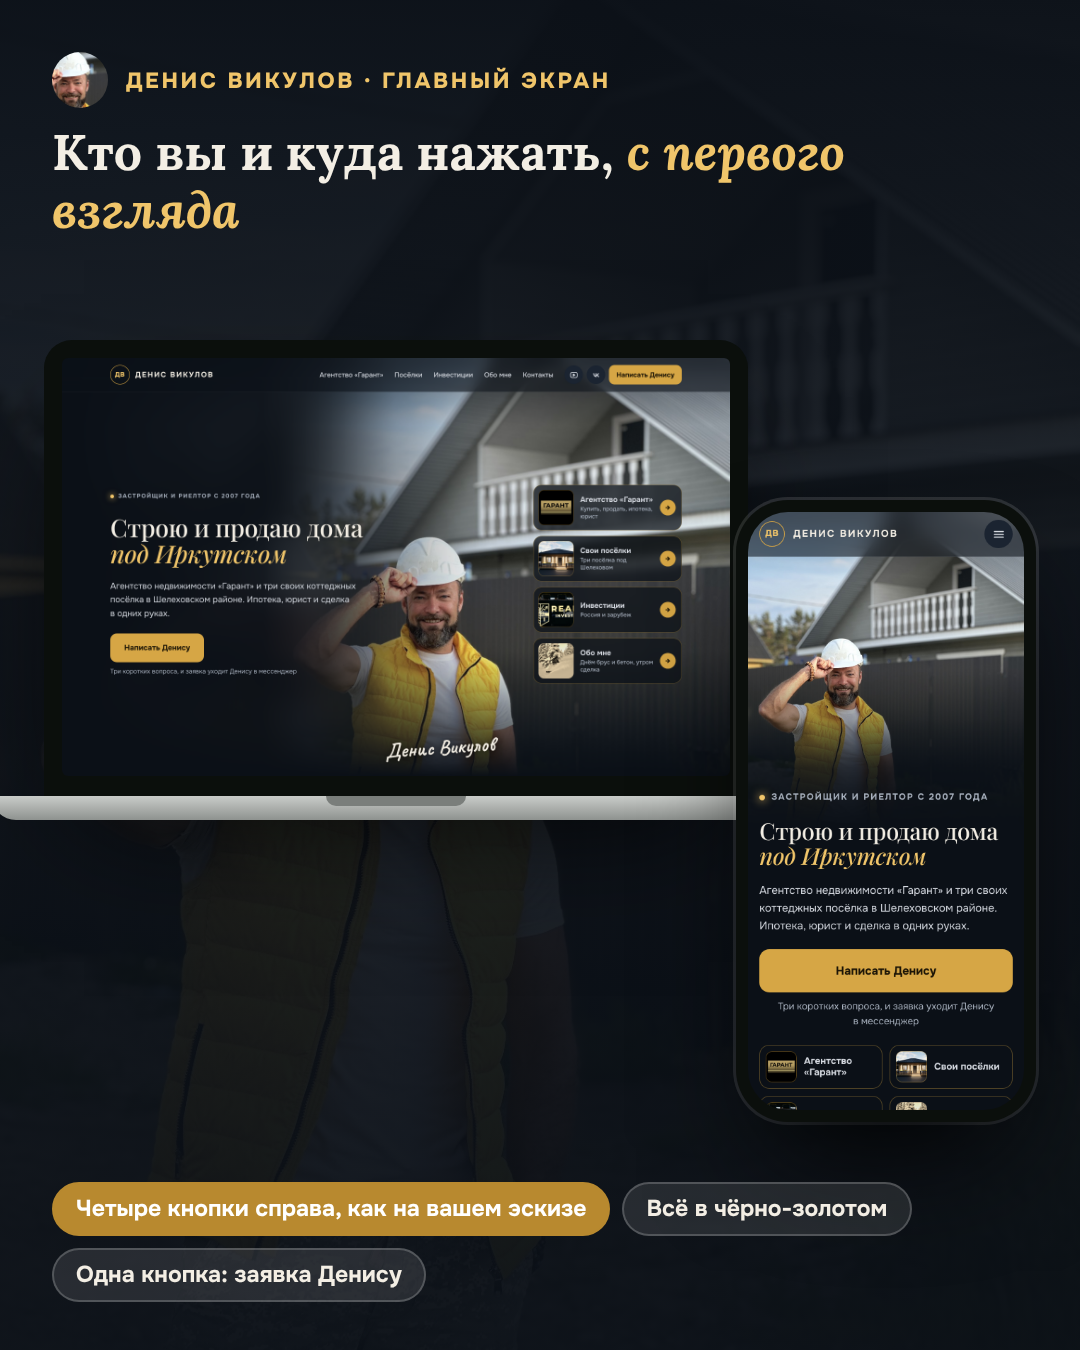
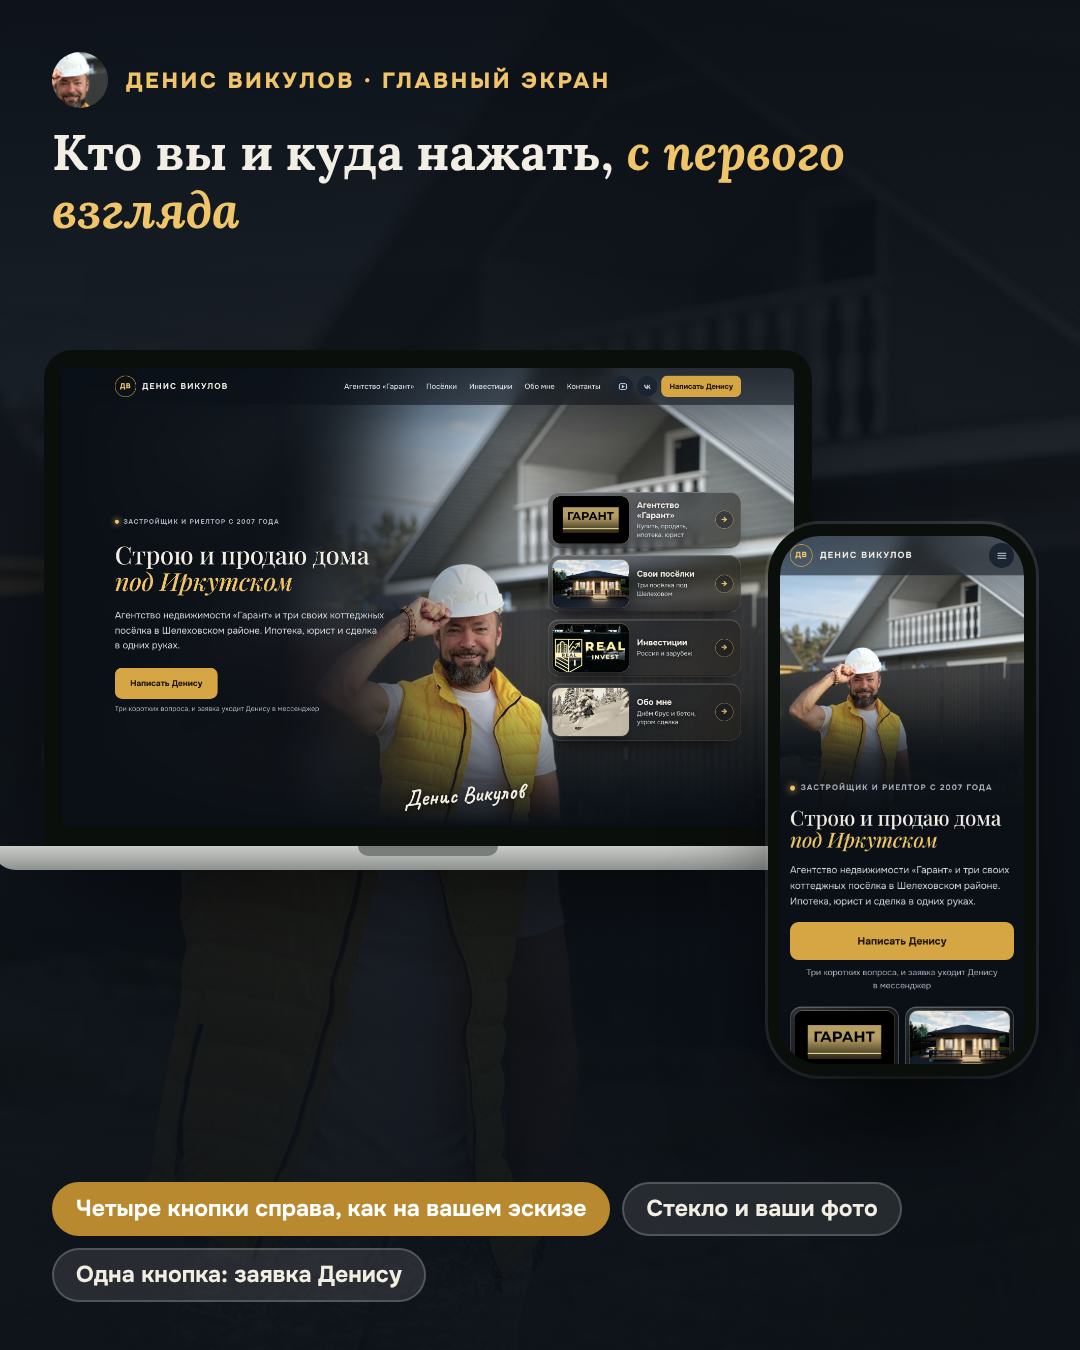
Денис Викулов: кнопки направлений стеклянными плашками, фото внутри почти без обрезки
Claude-Session: https://claude.ai/code/session_01MqcZMF1QZGroxt2dRB4nWR

Changed region(s): [[0.0, 0.2489, 0.9472, 0.84], [0.6111, 0.8711, 0.8556, 0.9022], [0.0306, 0.2489, 0.1833, 0.28]]

diff --git a/denis-vikulov/index.html b/denis-vikulov/index.html
@@ -68,23 +68,29 @@ nav a:hover{color:var(--gold-hi)}
 .stage::after{content:"";position:absolute;inset:0;z-index:-1;background:linear-gradient(90deg,var(--bg) 0%,rgb(11 16 23 / .92) 30%,rgb(11 16 23 / .4) 48%,transparent 64%),linear-gradient(180deg,rgb(11 16 23 / .55) 0%,transparent 16%,transparent 70%,var(--bg) 100%)}
 .hero{position:relative;display:grid;grid-template-columns:minmax(0,620px) minmax(0,1fr);min-height:clamp(600px,calc(100vh - 72px),900px);padding-block:40px;align-items:center}
 .h-left{display:grid;gap:28px;align-content:center}
-.hero h1{font-family:var(--serif);font-weight:500;font-size:clamp(38px,3.7vw,54px);line-height:1.06;letter-spacing:-.01em;text-wrap:wrap}
+.hero h1{font-family:var(--serif);font-weight:500;font-size:clamp(36px,3.4vw,50px);line-height:1.06;letter-spacing:-.01em;text-wrap:wrap}
 .hero h1 .scr{display:block;font-style:italic;color:var(--gold-hi)}
 .sub{font-size:clamp(16px,1.3vw,18.5px);color:#D5D9E0;max-width:44ch;line-height:1.6}
 .cta{display:grid;gap:10px;justify-items:start}
 .cta .btn{padding:18px 30px;font-size:16.5px}
 .cta small{font-size:13.5px;color:var(--muted)}
-.hero{grid-template-columns:minmax(0,560px) minmax(0,1fr) 320px;column-gap:32px}
-.sign{position:absolute;left:calc(560px + 32px);bottom:40px;font-family:var(--script);font-size:44px;line-height:1;color:var(--ink);text-shadow:0 2px 14px rgb(0 0 0 / .7);transform:rotate(-4deg)}
-/* четыре кнопки-направления справа, все в чёрно-золотом */
-.go{grid-column:3;display:grid;gap:12px;align-content:center}
-.go a{display:grid;grid-template-columns:76px minmax(0,1fr) 34px;gap:14px;align-items:center;padding:10px 12px 10px 10px;border-radius:18px;background:rgb(11 16 23 / .72);backdrop-filter:blur(12px);border:1px solid rgb(214 166 69 / .38);text-decoration:none;transition:border-color .15s,background .15s,transform .15s}
-.go a:hover{border-color:var(--gold-hi);background:rgb(42 36 20 / .85);transform:translateX(-3px)}
-.go .pic{width:76px;height:76px;border-radius:12px;background:#000 center/cover;box-shadow:inset 0 0 0 1px rgb(214 166 69 / .35)}
-.go .pic.gold{filter:grayscale(1) sepia(.55) saturate(1.25) brightness(.85) contrast(1.15)}
-.go b{display:block;font-size:16px;line-height:1.2}
-.go small{display:block;font-size:12.5px;color:var(--muted);line-height:1.3;margin-top:3px}
-.go .ar{width:34px;height:34px;border-radius:50%;display:grid;place-items:center;background:var(--gold);color:var(--gold-ink);font-weight:800}
+.hero{grid-template-columns:minmax(0,540px) minmax(0,1fr) 380px;column-gap:28px}
+.sign{position:absolute;left:calc(540px + 28px);bottom:40px;font-family:var(--script);font-size:44px;line-height:1;color:var(--ink);text-shadow:0 2px 14px rgb(0 0 0 / .7);transform:rotate(-4deg)}
+/* четыре кнопки-направления справа: стеклянные плашки, фото внутри почти без обрезки */
+.go{grid-column:3;display:grid;gap:14px;align-content:center}
+.go a{position:relative;display:grid;grid-template-columns:150px minmax(0,1fr) 36px;gap:16px;align-items:center;padding:8px 14px 8px 8px;border-radius:22px;text-decoration:none;
+  background:linear-gradient(135deg,rgb(255 255 255 / .14),rgb(255 255 255 / .03) 45%,rgb(214 166 69 / .1)),rgb(11 16 23 / .5);
+  backdrop-filter:blur(18px) saturate(1.4);-webkit-backdrop-filter:blur(18px) saturate(1.4);
+  border:1px solid rgb(255 255 255 / .22);
+  box-shadow:inset 0 1px 0 rgb(255 255 255 / .28),inset 0 -1px 0 rgb(0 0 0 / .25),0 24px 44px -24px rgb(0 0 0 / .85);
+  transition:border-color .2s,transform .2s,background .2s}
+.go a:hover{border-color:rgb(240 197 106 / .75);transform:translateX(-4px);background:linear-gradient(135deg,rgb(255 255 255 / .18),rgb(255 255 255 / .05) 45%,rgb(214 166 69 / .2)),rgb(11 16 23 / .55)}
+.go .pic{aspect-ratio:16/10;border-radius:15px;background:#000 center/cover;box-shadow:0 0 0 1px rgb(240 197 106 / .35),0 10px 20px -10px rgb(0 0 0 / .8)}
+.go .pic.gold{filter:grayscale(1) sepia(.35) contrast(1.1) brightness(.92)}
+.go b{display:block;font-size:16.5px;line-height:1.2;text-shadow:0 1px 8px rgb(0 0 0 / .5)}
+.go small{display:block;font-size:12.5px;color:#D9DEE6;line-height:1.35;margin-top:4px;text-shadow:0 1px 8px rgb(0 0 0 / .5)}
+.go .ar{width:36px;height:36px;border-radius:50%;display:grid;place-items:center;color:var(--gold-hi);font-weight:800;background:rgb(11 16 23 / .35);border:1px solid rgb(240 197 106 / .6);transition:background .2s,color .2s}
+.go a:hover .ar{background:var(--gold);color:var(--gold-ink)}
 
 /* сразу под первым экраном: цифры и четыре направления */
 .napr{padding-block:8px 72px}
@@ -106,7 +112,7 @@ nav a:hover{color:var(--gold-hi)}
 .dir small{grid-column:1;font-size:13.5px;color:var(--muted);line-height:1.4}
 .dir .ar{grid-row:1/span 2;grid-column:2;color:var(--gold-hi);font-size:20px}
 
-@media (max-width:1200px){.hero{grid-template-columns:minmax(0,500px) minmax(0,1fr) 290px}.sign{left:calc(500px + 32px)}}
+@media (max-width:1240px){.hero{grid-template-columns:minmax(0,480px) minmax(0,1fr) 340px}.sign{left:calc(480px + 28px)}.go a{grid-template-columns:120px minmax(0,1fr) 32px;gap:12px}.go small{display:none}}
 @media (max-width:1100px){.stats{grid-template-columns:repeat(3,minmax(0,1fr))}.stats a:nth-child(4){border-left:0}.stats a:nth-child(n+4){border-top:1px solid var(--line)}}
 @media (max-width:960px){
   .stage{margin-top:-62px;padding-top:62px}
@@ -129,10 +135,10 @@ nav a:hover{color:var(--gold-hi)}
   .stats a:nth-child(-n+2){border-top:0}
   .stats a:nth-child(even){border-left:1px solid var(--line)}
   .stats a:last-child{grid-column:span 2}
-  .go a{grid-template-columns:44px minmax(0,1fr);gap:10px;padding:8px;border-radius:14px}
-  .go .pic{width:44px;height:44px;border-radius:9px}
+  .go a{grid-template-columns:1fr;gap:9px;padding:6px 6px 11px;border-radius:18px}
+  .go .pic{border-radius:13px}
   .go small,.go .ar{display:none}
-  .go b{font-size:13.5px}
+  .go b{font-size:13.5px;padding-inline:6px}
 }
 
 /* структура */
@@ -234,12 +240,12 @@ dialog p{color:var(--muted);font-size:14.5px;margin-bottom:8px}
         </div>
       </div>
       <span class="sign">Денис Викулов</span>
-      <nav class="go" aria-label="Направления">
-        <a href="#struktura"><span class="pic" style="background-image:url(img/garant-kvadrat.jpg)"></span><span><b>Агентство «Гарант»</b><small>Купить, продать, ипотека, юрист</small></span><span class="ar">→</span></a>
-        <a href="#struktura"><span class="pic" style="background-image:url(img/dom-noch.jpg);background-position:55% 60%"></span><span><b>Свои посёлки</b><small>Три посёлка под Шелеховом</small></span><span class="ar">→</span></a>
-        <a href="#struktura"><span class="pic" style="background-image:url(img/real-invest.jpg)"></span><span><b>Инвестиции</b><small>Россия и&nbsp;зарубеж</small></span><span class="ar">→</span></a>
+      <div class="go" role="navigation" aria-label="Направления">
+        <a href="#struktura"><span class="pic" style="background-image:url(img/garant-shirokij.jpg)"></span><span><b>Агентство «Гарант»</b><small>Купить, продать, ипотека, юрист</small></span><span class="ar">→</span></a>
+        <a href="#struktura"><span class="pic" style="background-image:url(img/dom-noch.jpg);background-position:50% 55%"></span><span><b>Свои посёлки</b><small>Три посёлка под Шелеховом</small></span><span class="ar">→</span></a>
+        <a href="#struktura"><span class="pic" style="background-image:url(img/real-invest-shirokij.jpg);background-position:50% 60%"></span><span><b>Инвестиции</b><small>Россия и&nbsp;зарубеж</small></span><span class="ar">→</span></a>
         <a href="#struktura"><span class="pic gold" style="background-image:url(img/frirayd.jpg);background-position:45% 40%"></span><span><b>Обо мне</b><small>Днём брус и&nbsp;бетон, утром сделка</small></span><span class="ar">→</span></a>
-      </nav>
+      </div>
     </div>
   </div>
   </div>
